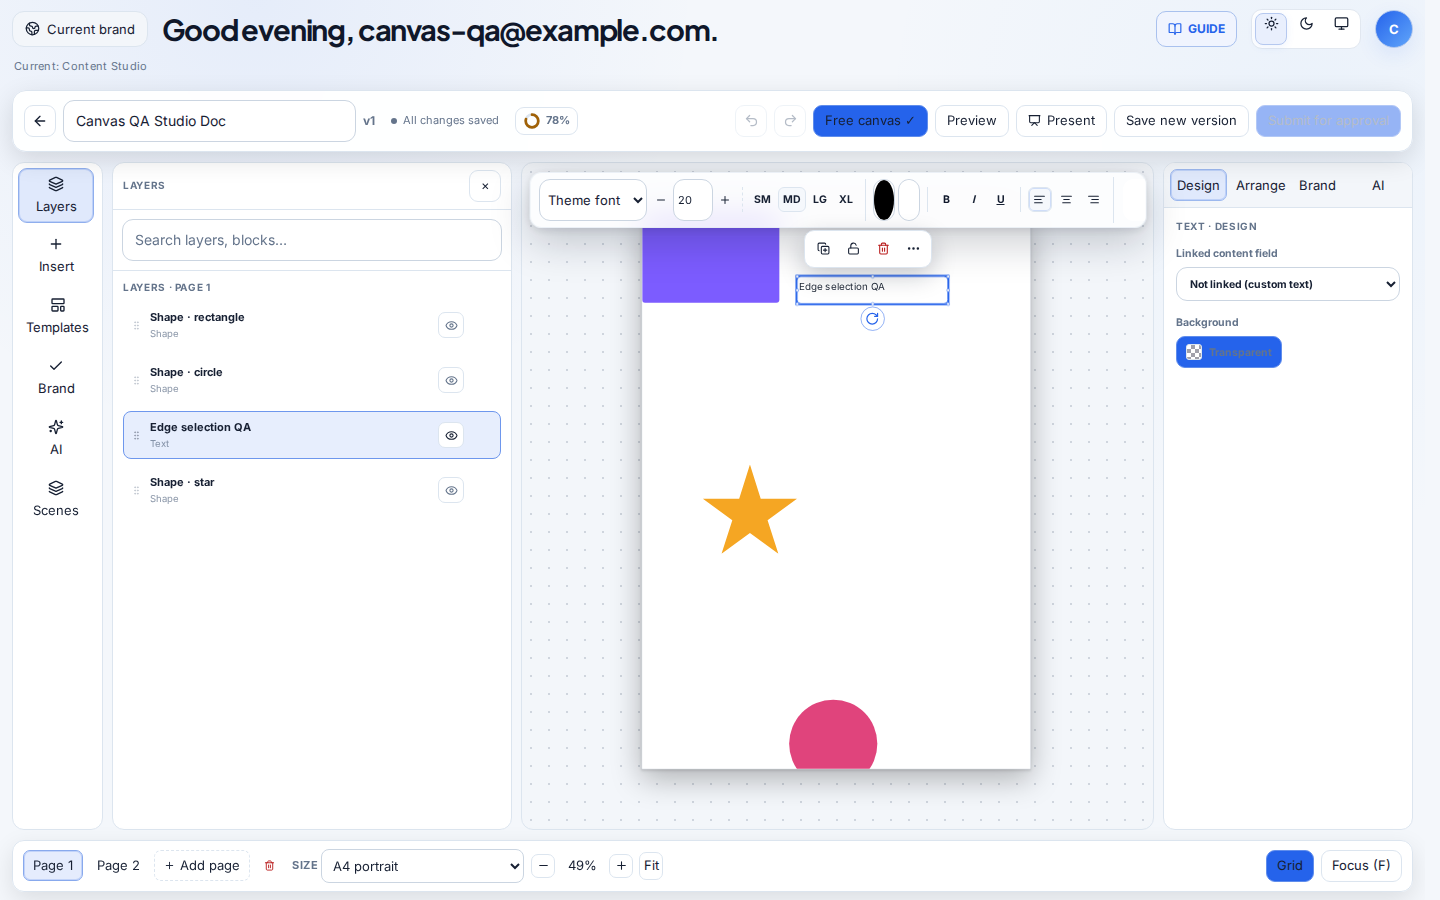
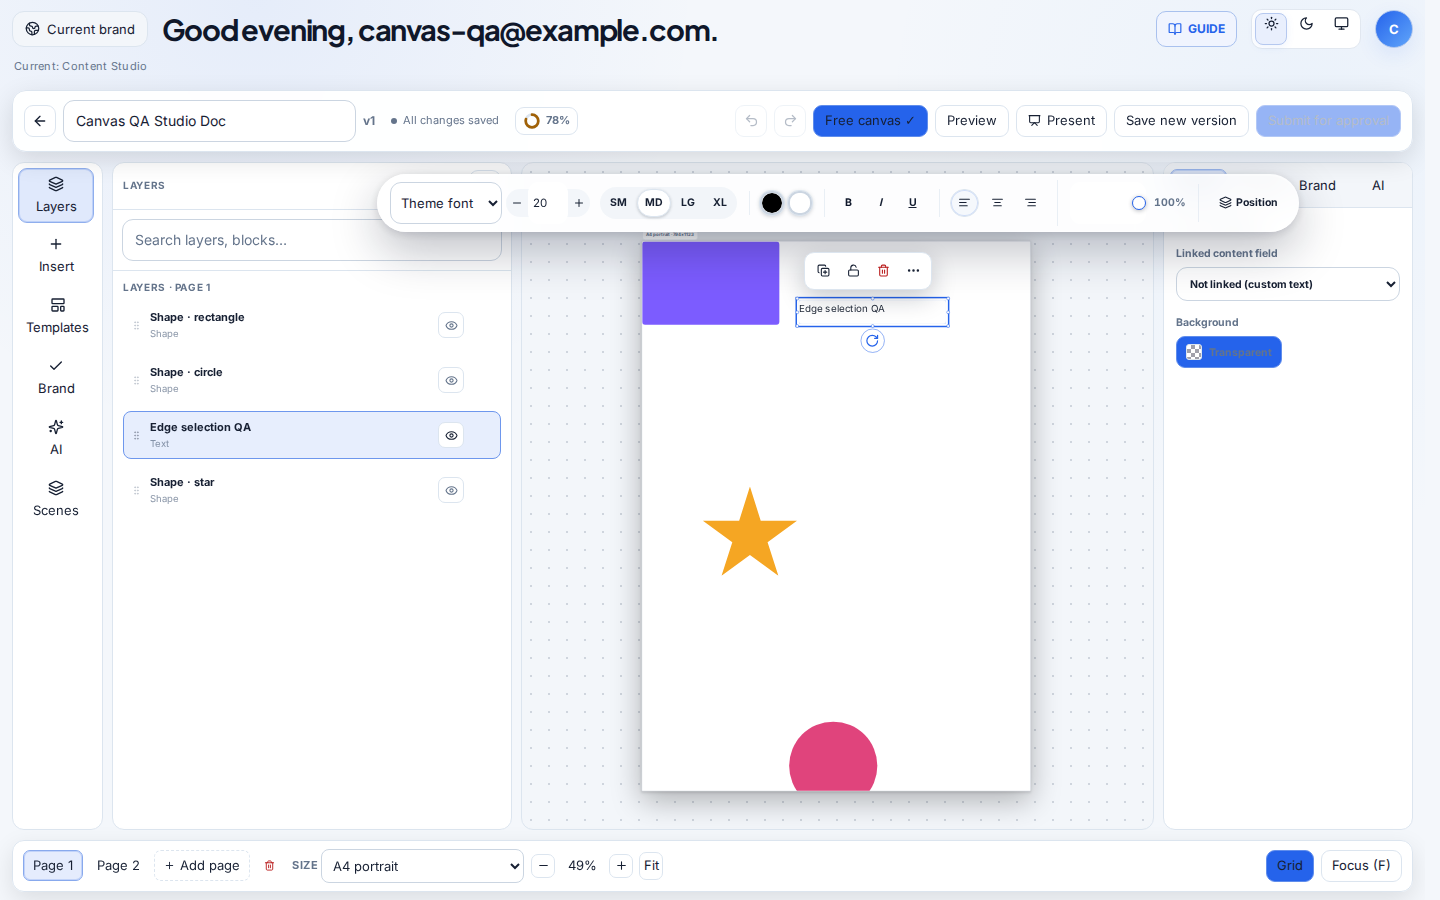
fix(studio): perfect-circle pickers, pill context bar polish, single-click edit gate
- Colour pickers are true circles: the global form-control min-height
  (42px) was stretching them into ovals — swatches now force
  min-height 0 + aspect-ratio 1/1, 24px, white ring + shadow.
- Context bar redesigned as a single-row pill (999px radius, 82%
  translucent surface, 18px backdrop blur, inset highlight, softer
  borders): width sizes to content and may overhang the stage column, so
  no horizontal scroller ever appears and it never wraps over artwork.
  Consistent 28px pill controls, segmented SM/MD/LG/XL + heading-level
  groups, aligned dividers, pill select + stepper.
- The auto-fit centres the page 44px lower in edit mode
  (STUDIO_BAR_CLEARANCE) so the floating bar hovers over bare workspace
  instead of artwork; preview/focus refit without the clearance.
- Deterministic click-to-edit: the first click on a block selects it, only
  a click on an already-selected block starts inline editing (the old
  render-timing race made a single click enter editing and broke
  right-click/rotate/dblclick sequences).

QA: 811/811 vitest, tsc clean, 44/44 browser checks (circle geometry,
no scroller, bar-over-workspace placement, full regression set).

Changed region(s): [[0.25, 0.1867, 0.9062, 0.3733], [0.4375, 0.7778, 0.7188, 0.9022], [0.4688, 0.5289, 0.5625, 0.6533]]

diff --git a/components/content/content-editor-workspace.tsx b/components/content/content-editor-workspace.tsx
@@ -555,6 +555,7 @@ function CanvasText({
   onDraftInput,
   onInlineToolbarChange,
   isSelected = false,
+  editGateRef,
   editOnDoubleClick = false,
   editRequest = 0,
   onEditingEnd,
@@ -569,6 +570,8 @@ function CanvasText({
   onDraftInput?: (next: string, runs?: InlineTextRun[]) => void;
   onInlineToolbarChange?: InlineTextToolbarChange;
   isSelected?: boolean;
+  /** Ref flag: was this block already selected when the current click began? */
+  editGateRef?: React.MutableRefObject<boolean>;
   editOnDoubleClick?: boolean;
   editRequest?: number;
   onEditingEnd?: () => void;
@@ -630,11 +633,14 @@ function CanvasText({
   };
 
   const handleCanvasClick = (event: React.MouseEvent<HTMLDivElement>) => {
+    // Capture whether THIS block was already selected before onClick updates
+    // the selection — the click that selects must never also start editing.
+    const alreadySelected = editGateRef?.current ?? isSelected;
     onClick();
     if (disabled) return;
     // First click selects the block; a subsequent click enters text editing.
     // On a double-click's second click, preserve the clicked word as selection.
-    if (!editOnDoubleClick || isSelected) beginEditing(event, event.detail >= 2);
+    if (!editOnDoubleClick || alreadySelected) beginEditing(event, event.detail >= 2);
   };
 
   const handleCanvasDoubleClick = (event: React.MouseEvent<HTMLDivElement>) => {
@@ -1088,8 +1094,13 @@ function defaultGeometryForNewBlock(block: EditorBlock, page: ContentDocPage): C
 function fitZoom(stage: { w: number; h: number }, page: { w: number; h: number }, pad = 56): number {
   return Math.min((stage.w - pad * 2) / page.w, (stage.h - pad * 2) / page.h, 1.5);
 }
-function centerOffset(stage: { w: number; h: number }, page: { w: number; h: number }, z: number): { x: number; y: number } {
-  return { x: (stage.w - page.w * z) / 2, y: (stage.h - page.h * z) / 2 };
+/** Extra vertical headroom above the page for the floating contextual bar —
+ * the page centres slightly low so the bar hovers over bare workspace, never
+ * over artwork (Canva-style). */
+export const STUDIO_BAR_CLEARANCE = 44;
+
+function centerOffset(stage: { w: number; h: number }, page: { w: number; h: number }, z: number, chromeTop = 0): { x: number; y: number } {
+  return { x: (stage.w - page.w * z) / 2, y: chromeTop + (stage.h - chromeTop - page.h * z) / 2 };
 }
 
 const SNAPSHOT_MAX_BYTES = 2_097_152;
@@ -1316,6 +1327,10 @@ export function ContentEditorWorkspace({ brandId, organizationId, contentId, doc
   // True only for pointerdowns that began on the frame/page-clip background;
   // guards the click-to-deselect handlers against retargeted pointerups.
   const framePointerDownOnChrome = useRef(false);
+  // Whether the clicked block was ALREADY selected when the pointer went down.
+  // The click-to-edit gate reads this instead of the (already-updated) render
+  // state, so the first click reliably selects and only the next click edits.
+  const blockSelectedAtPointerDown = useRef(false);
   const snapshotHostRef = useRef<HTMLDivElement | null>(null);
   const manualZoomRef = useRef(false);
   const offsetRef = useRef({ x: 0, y: 0 });
@@ -3158,8 +3173,8 @@ export function ContentEditorWorkspace({ brandId, organizationId, contentId, doc
     const rect = { w: stage.clientWidth, h: stage.clientHeight };
     const z = Math.max(0.05, fitZoom(rect, { w: pageDims.width, h: pageDims.height }));
     setZoom(Math.round(z * 100));
-    setOffset(centerOffset(rect, { w: pageDims.width, h: pageDims.height }, z));
-  }, [pageDims.width, pageDims.height]);
+    setOffset(centerOffset(rect, { w: pageDims.width, h: pageDims.height }, z, previewMode || focusMode ? 0 : STUDIO_BAR_CLEARANCE));
+  }, [pageDims.width, pageDims.height, previewMode, focusMode]);
 
   const beginDrawerLayoutTransition = () => {
     if (drawerLayoutAnimationTimerRef.current !== null) window.clearTimeout(drawerLayoutAnimationTimerRef.current);
@@ -3998,7 +4013,8 @@ export function ContentEditorWorkspace({ brandId, organizationId, contentId, doc
           baseStyle={{ color: ink, fontSize, ...(block.fontFamily ? { fontFamily: block.fontFamily } : {}) }}
           disabled={!editable}
           multiline
-          onClick={snapshotMode ? () => undefined : () => { setSelectedId(block.id); setInspectorTab('design'); }}
+          editGateRef={blockSelectedAtPointerDown}
+          onClick={snapshotMode ? () => undefined : () => { blockSelectedAtPointerDown.current = selectedId === block.id; setSelectedId(block.id); setInspectorTab('design'); }}
           onCommit={(next, runs) => patchBlock(block.id, { text: next, richText: runs })}
           onDraftInput={snapshotMode ? undefined : (next, runs) => persistInlineTextDraft(block.id, next, runs)}
           editOnDoubleClick={true}
@@ -4021,13 +4037,13 @@ export function ContentEditorWorkspace({ brandId, organizationId, contentId, doc
       case 'heading':
         return (
           <div className={`content-doc-heading align-${block.align} editor-level-${block.level}`} style={{ color: block.color ?? DEFAULT_CONTENT_TEXT_COLOR, ...(block.bg ? { background: block.bg } : {}), fontSize: `${block.fontSize ?? headingFontSizeForLevel(block.level)}px`, fontFamily: block.fontFamily || undefined, fontWeight: block.bold ? 800 : undefined, fontStyle: block.italic ? 'italic' : undefined, textDecoration: block.underline ? 'underline' : undefined, width: '100%', height: '100%', overflow: 'hidden', opacity: block.opacity ?? 1 }}>
-            <CanvasText value={resolveBlockText(block, linkedValues)} richText={block.richText} baseStyle={{ bold: block.bold, italic: block.italic, underline: block.underline, color: block.color ?? DEFAULT_CONTENT_TEXT_COLOR, bg: block.bg, ...(block.fontSize !== undefined ? { fontSize: block.fontSize } : {}), ...(block.fontFamily ? { fontFamily: block.fontFamily } : {}) }} disabled={!editable} multiline={false} onClick={textProps.onClick} onCommit={textProps.onCommit} onDraftInput={snapshotMode ? undefined : (next, runs) => persistInlineTextDraft(block.id, next, runs)} editOnDoubleClick={true} isSelected={!snapshotMode && selectedId === block.id && !previewMode} onInlineToolbarChange={snapshotMode ? undefined : bindInlineToolbar(block.id)} editRequest={snapshotMode ? 0 : (inlineTextEditRequest?.blockId === block.id ? inlineTextEditRequest.sequence : 0)} onEditingEnd={() => setInlineTextEditRequest((current) => current?.blockId === block.id ? null : current)} />
+            <CanvasText value={resolveBlockText(block, linkedValues)} richText={block.richText} baseStyle={{ bold: block.bold, italic: block.italic, underline: block.underline, color: block.color ?? DEFAULT_CONTENT_TEXT_COLOR, bg: block.bg, ...(block.fontSize !== undefined ? { fontSize: block.fontSize } : {}), ...(block.fontFamily ? { fontFamily: block.fontFamily } : {}) }} disabled={!editable} multiline={false} onClick={textProps.onClick} onCommit={textProps.onCommit} onDraftInput={snapshotMode ? undefined : (next, runs) => persistInlineTextDraft(block.id, next, runs)} editOnDoubleClick={true} editGateRef={blockSelectedAtPointerDown} isSelected={!snapshotMode && selectedId === block.id && !previewMode} onInlineToolbarChange={snapshotMode ? undefined : bindInlineToolbar(block.id)} editRequest={snapshotMode ? 0 : (inlineTextEditRequest?.blockId === block.id ? inlineTextEditRequest.sequence : 0)} onEditingEnd={() => setInlineTextEditRequest((current) => current?.blockId === block.id ? null : current)} />
           </div>
         );
       case 'text':
         return (
           <div className={`content-doc-text size-${block.size} align-${block.align}`} style={{ color: block.color ?? DEFAULT_CONTENT_TEXT_COLOR, ...(block.bg ? { background: block.bg, padding: '6px 10px', borderRadius: 8 } : {}), fontSize: block.fontSize ? `${block.fontSize}px` : undefined, fontFamily: block.fontFamily || undefined, fontWeight: block.bold ? 700 : undefined, fontStyle: block.italic ? 'italic' : undefined, textDecoration: block.underline ? 'underline' : undefined, width: '100%', height: '100%', overflow: 'hidden' }}>
-            <CanvasText value={resolveBlockText(block, linkedValues)} richText={block.richText} baseStyle={{ bold: block.bold, italic: block.italic, underline: block.underline, color: block.color ?? DEFAULT_CONTENT_TEXT_COLOR, bg: block.bg, ...(block.fontSize !== undefined ? { fontSize: block.fontSize } : {}), ...(block.fontFamily ? { fontFamily: block.fontFamily } : {}) }} disabled={!editable} multiline onClick={textProps.onClick} onCommit={textProps.onCommit} onDraftInput={snapshotMode ? undefined : (next, runs) => persistInlineTextDraft(block.id, next, runs)} editOnDoubleClick={true} isSelected={!snapshotMode && selectedId === block.id && !previewMode} onInlineToolbarChange={snapshotMode ? undefined : bindInlineToolbar(block.id)} editRequest={snapshotMode ? 0 : (inlineTextEditRequest?.blockId === block.id ? inlineTextEditRequest.sequence : 0)} onEditingEnd={() => setInlineTextEditRequest((current) => current?.blockId === block.id ? null : current)} />
+            <CanvasText value={resolveBlockText(block, linkedValues)} richText={block.richText} baseStyle={{ bold: block.bold, italic: block.italic, underline: block.underline, color: block.color ?? DEFAULT_CONTENT_TEXT_COLOR, bg: block.bg, ...(block.fontSize !== undefined ? { fontSize: block.fontSize } : {}), ...(block.fontFamily ? { fontFamily: block.fontFamily } : {}) }} disabled={!editable} multiline onClick={textProps.onClick} onCommit={textProps.onCommit} onDraftInput={snapshotMode ? undefined : (next, runs) => persistInlineTextDraft(block.id, next, runs)} editOnDoubleClick={true} editGateRef={blockSelectedAtPointerDown} isSelected={!snapshotMode && selectedId === block.id && !previewMode} onInlineToolbarChange={snapshotMode ? undefined : bindInlineToolbar(block.id)} editRequest={snapshotMode ? 0 : (inlineTextEditRequest?.blockId === block.id ? inlineTextEditRequest.sequence : 0)} onEditingEnd={() => setInlineTextEditRequest((current) => current?.blockId === block.id ? null : current)} />
           </div>
         );
       case 'image':
@@ -4756,6 +4772,7 @@ export function ContentEditorWorkspace({ brandId, organizationId, contentId, doc
                     }}
                     onPointerDown={(event) => {
                       if (event.button !== 0 || spaceHeld.current) return;
+                      blockSelectedAtPointerDown.current = selectedId === block.id;
                       setSelectedId(block.id);
                       const pointerTarget = event.target as HTMLElement;
                       // Text selection inside an active editor must win over element dragging.
@@ -4795,7 +4812,7 @@ export function ContentEditorWorkspace({ brandId, organizationId, contentId, doc
                 const isSelected = selectedId === block.id && !previewMode;
                 const dropBefore = dropTarget?.index === index && !dropTarget.below;
                 const dropAfter = dropTarget?.index === index && dropTarget.below;
-                const textProps = { onClick: () => { setSelectedId(block.id); setInspectorTab('design'); }, onCommit: (next: string, runs?: InlineTextRun[]) => patchBlock(block.id, { text: next, ...(block.type === 'heading' || block.type === 'text' ? { richText: runs } : {}) }) };
+                const textProps = { onClick: () => { blockSelectedAtPointerDown.current = selectedId === block.id; setSelectedId(block.id); setInspectorTab('design'); }, onCommit: (next: string, runs?: InlineTextRun[]) => patchBlock(block.id, { text: next, ...(block.type === 'heading' || block.type === 'text' ? { richText: runs } : {}) }) };
                 const editable = canEdit && !block.locked;
                 return (
                   <div key={block.id} className="editor-drop-wrap">

diff --git a/app/studio.css b/app/studio.css
@@ -1713,48 +1713,48 @@ button.st-logo-import-chip.is-failed:hover:not(:disabled) { background: color-mi
    selected, so the stage geometry never changes on selection. */
 .studio-context-bar {
   position: absolute;
-  top: 10px;
+  top: 12px;
   left: 50%;
   transform: translateX(-50%);
   z-index: 90;
   display: flex;
   flex-wrap: nowrap;
   align-items: center;
-  gap: 4px;
-  max-width: calc(100% - 16px);
-  min-height: 40px;
-  padding: 4px 8px;
-  border: 1px solid color-mix(in srgb, var(--st-line-strong, #cbd5e1) 55%, transparent);
-  border-radius: 12px;
-  background: color-mix(in srgb, var(--st-panel, var(--surface-card, #fffdf8)) 76%, transparent);
-  backdrop-filter: blur(16px);
-  -webkit-backdrop-filter: blur(16px);
+  gap: 4px 6px;
+  width: max-content;
+  max-width: calc(100vw - 140px);
+  min-height: 44px;
+  padding: 5px 12px;
+  border: 1px solid rgb(255 255 255 / .35);
+  border-radius: 999px;
+  background: color-mix(in srgb, var(--st-panel, var(--surface-card, #fffdf8)) 82%, transparent);
+  backdrop-filter: blur(18px);
+  -webkit-backdrop-filter: blur(18px);
   color: var(--st-text, var(--text, #292820));
-  box-shadow: 0 14px 40px rgba(15, 23, 42, .22), 0 2px 8px rgba(15, 23, 42, .12);
-  overflow-x: auto;
-  overflow-y: hidden;
-  scrollbar-width: thin;
+  box-shadow: 0 18px 48px rgba(15, 23, 42, .28), 0 2px 10px rgba(15, 23, 42, .14), inset 0 1px 0 rgb(255 255 255 / .35);
 }
 .st-bar-group {
   display: inline-flex;
   align-items: center;
-  gap: 3px;
+  gap: 4px;
   flex-shrink: 0;
 }
-.st-bar-group + .st-bar-group { margin-left: 3px; padding-left: 7px; border-left: 1px solid var(--st-line, var(--line, #e2dbcf)); }
-.st-bar-subgroup { display: inline-flex; align-items: center; gap: 2px; margin-left: 3px; padding-left: 6px; border-left: 1px dashed var(--st-line, var(--line, #e2dbcf)); }
-.st-context-bar-sep { flex: 0 0 1px; align-self: stretch; margin: 3px 4px; background: var(--st-line, var(--line, #e2dbcf)); }
+.st-bar-group + .st-bar-group { margin-left: 6px; padding-left: 10px; border-left: 1px solid color-mix(in srgb, var(--st-line-strong, #cbd5e1) 60%, transparent); }
+.st-bar-subgroup { display: inline-flex; align-items: center; gap: 2px; margin-left: 6px; padding: 2px; border-left: none; border-radius: 999px; background: color-mix(in srgb, var(--st-line, var(--line, #e2dbcf)) 35%, transparent); }
+.st-bar-subgroup button { border-radius: 999px !important; }
+.st-bar-subgroup button.is-on { background: var(--st-panel, var(--surface-card, #fffdf8)) !important; box-shadow: 0 1px 3px rgb(15 23 42 / .2); }
+.st-context-bar-sep { flex: 0 0 1px; align-self: stretch; margin: 4px 6px; background: color-mix(in srgb, var(--st-line-strong, #cbd5e1) 60%, transparent); }
 .studio-context-bar button,
 .st-bar-btn {
   display: inline-flex;
   align-items: center;
   justify-content: center;
-  gap: 3px;
-  min-width: 24px;
-  height: 25px;
-  padding: 0 4px;
+  gap: 4px;
+  min-width: 28px;
+  height: 28px;
+  padding: 0 7px;
   border: 1px solid transparent;
-  border-radius: 6px;
+  border-radius: 999px;
   background: transparent;
   color: inherit;
   font-size: 10.5px;
@@ -1762,6 +1762,7 @@ button.st-logo-import-chip.is-failed:hover:not(:disabled) { background: color-mi
   flex-shrink: 0;
   cursor: pointer;
   white-space: nowrap;
+  transition: background .12s ease, border-color .12s ease;
 }
 .studio-context-bar button:hover:not(:disabled),
 .studio-context-bar button.is-on,
@@ -1774,16 +1775,20 @@ button.st-logo-import-chip.is-failed:hover:not(:disabled) { background: color-mi
 .studio-inspector input[type="color"] {
   -webkit-appearance: none;
   appearance: none;
-  flex: 0 0 22px;
-  width: 22px;
-  min-width: 22px;
-  max-width: 22px;
-  height: 22px;
+  flex: 0 0 24px;
+  width: 24px;
+  min-width: 24px;
+  max-width: 24px;
+  height: 24px;
+  min-height: 0;
+  aspect-ratio: 1 / 1;
   padding: 0;
-  border: 1.5px solid var(--st-line-strong, var(--line, #e2dbcf));
+  border: 2px solid rgb(255 255 255 / .9);
+  outline: 1px solid var(--st-line-strong, var(--line, #e2dbcf));
   border-radius: 50%;
   background: transparent;
   cursor: pointer;
+  box-shadow: 0 1px 4px rgb(15 23 42 / .25);
 }
 .studio-context-bar input[type="color"]::-webkit-color-swatch-wrapper,
 .studio-inspector input[type="color"]::-webkit-color-swatch-wrapper { padding: 0; }
@@ -1792,35 +1797,43 @@ button.st-logo-import-chip.is-failed:hover:not(:disabled) { background: color-mi
 .studio-context-bar input[type="color"]::-moz-color-swatch,
 .studio-inspector input[type="color"]::-moz-color-swatch { border: none; border-radius: 50%; }
 .st-bar-select {
-  max-width: 108px;
-  height: 26px;
-  padding: 0 4px;
-  border: 1px solid var(--st-line, var(--line, #e2dbcf));
-  border-radius: 6px;
-  background: var(--st-surface, var(--surface-input, var(--panel, #fffdf8)));
+  max-width: 112px;
+  height: 28px;
+  padding: 0 6px;
+  border: 1px solid transparent;
+  border-radius: 999px;
+  background: color-mix(in srgb, var(--st-line, var(--line, #e2dbcf)) 30%, transparent);
   color: inherit;
   font-size: 11px;
   font-weight: 650;
   cursor: pointer;
 }
+.st-bar-select:hover { border-color: var(--st-line-strong, var(--line, #e2dbcf)); }
 .st-bar-size-input,
 .studio-context-bar input[type="number"] {
   width: 40px;
   min-width: 40px;
-  height: 26px;
-  padding: 0 3px;
-  border: 1px solid var(--st-line, var(--line, #e2dbcf));
-  border-radius: 6px;
-  background: var(--st-surface, var(--surface-input, var(--panel, #fffdf8)));
+  height: 28px;
+  padding: 0 2px;
+  border: none;
+  border-radius: 0;
+  background: transparent;
   color: inherit;
-  font-size: 11px;
+  font-size: 11.5px;
   text-align: center;
 }
-.st-bar-stepper { display: inline-flex; align-items: center; gap: 1px; }
-.st-bar-stepper button { min-width: 22px; padding: 0 3px; }
+.st-bar-stepper {
+  display: inline-flex;
+  align-items: center;
+  height: 28px;
+  border-radius: 999px;
+  background: color-mix(in srgb, var(--st-line, var(--line, #e2dbcf)) 30%, transparent);
+}
+.st-bar-stepper:hover { background: color-mix(in srgb, var(--st-line, var(--line, #e2dbcf)) 45%, transparent); }
+.st-bar-stepper button { min-width: 22px; padding: 0 3px; background: transparent !important; }
 .st-bar-reset { font-size: 10px; }
 .st-bar-opacity { gap: 6px; }
-.st-bar-opacity input[type="range"] { width: 72px; }
+.st-bar-opacity input[type="range"] { width: 76px; }
 /* Filled track driven by --p so 100% actually reaches the right edge —
    native accent tracks leave a thumb-shaped gap at max. */
 .studio-context-bar input[type="range"],
@@ -1922,8 +1935,8 @@ input[type="range"][style*="--p"]::-webkit-slider-thumb {
 }
 
 @media (max-width: 760px) {
-  .studio-context-bar { min-height: 38px; padding: 4px 8px; top: 6px; max-width: calc(100% - 16px); }
-  .st-bar-select { max-width: 104px; }
-  .st-bar-opacity input[type="range"] { width: 62px; }
+  .studio-context-bar { min-height: 40px; padding: 4px 10px; top: 6px; max-width: calc(100% - 16px); }
+  .st-bar-select { max-width: 96px; }
+  .st-bar-opacity input[type="range"] { width: 60px; }
   .studio-selection-pill { scale: .95; }
 }
